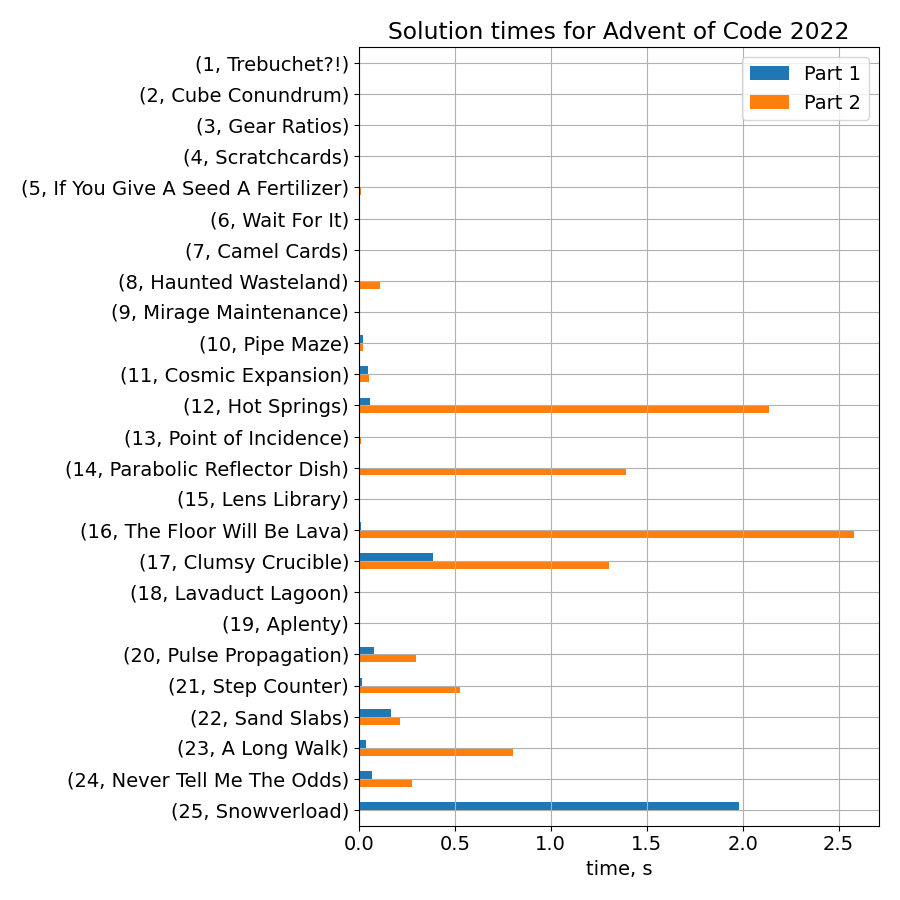
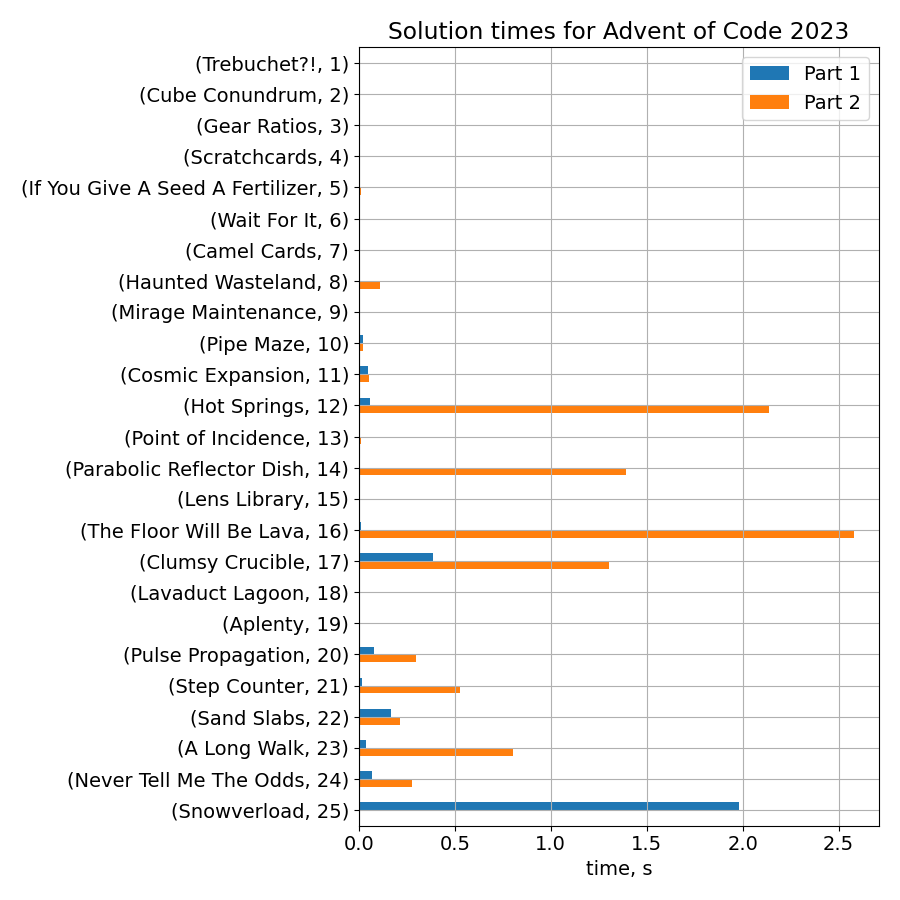
Fix plot title

Changed region(s): [[0.0311, 0.0622, 0.3733, 0.9333]]

diff --git a/src/solve_times.py b/src/solve_times.py
@@ -73,7 +73,7 @@ if __name__ == "__main__":
     ax.set(
         ylabel=None,
         xlabel="time, s",
-        title="Solution times for Advent of Code 2022",
+        title=f"Solution times for Advent of Code {args.year}",
     )
     ax.legend(["Part 1", "Part 2"])
     if res.max().max() > 15 * 1000:
